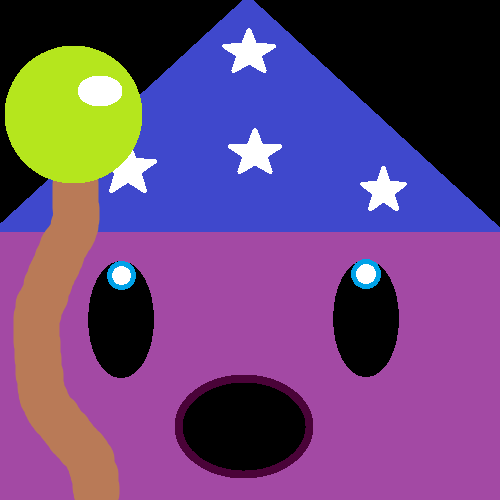
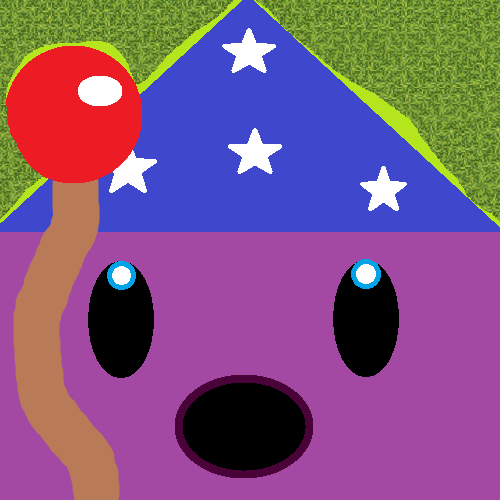
added terrain and updated textures

Changed region(s): [[0.0, 0.0, 0.48, 0.45], [0.51, 0.0, 1.0, 0.45]]

diff --git a/src/Screen.cpp b/src/Screen.cpp
@@ -76,22 +76,21 @@ void Screen::DisplayGame(float play_time)
 	int rounded_play_time = int(play_time);
 	std::string display_text = "Time: " + std::to_string(rounded_play_time);
 	SetHudText(display_text);
+	DisplayTerrain();
 	WriteHudText();
 }
 
-void Screen::DisplayLine(float m_lose_line_position_y)
+void Screen::DisplayTerrain()
 {
-	sf::Vector2f shape_vector;
+	static sf::Vector2u texture_size = m_terrain_texture.getSize();
 	sf::Vector2u window_size = m_window.getSize();
-	shape_vector.x = window_size.x;
-	shape_vector.y = 10;
-	sf::RectangleShape shape = sf::RectangleShape( shape_vector );
-	shape.setFillColor( sf::Color::White );
-	sf::Vector2f top_left_corner;
-	top_left_corner.x = 0;
-	top_left_corner.y = m_lose_line_position_y;
-	shape.setPosition(top_left_corner);
-	m_window.draw(shape);
+	static sf::Vector2f scale;
+	scale.x = window_size.x / texture_size.x;
+	scale.y = window_size.y / texture_size.y;
+	sf::Vector2f top_left_corner = sf::Vector2f(0,0);
+	m_terrain_sprite.setPosition(top_left_corner);
+	m_terrain_sprite.setScale(scale);
+	m_window.draw(m_terrain_sprite);
 }
 
 void Screen::DisplayEntity(const Entity& entity)

diff --git a/include/Screen.hpp b/include/Screen.hpp
@@ -18,9 +18,11 @@ private:
     sf::Texture m_player_texture = sf::Texture("assests/wizard.png");
     sf::Texture m_enemy_texture = sf::Texture("assests/monster.png");
     sf::Texture m_bullet_texture = sf::Texture("assests/fire_ball.png");
+    sf::Texture m_terrain_texture = sf::Texture("assests/terrain.png");
     sf::Sprite m_player_sprite = sf::Sprite(m_player_texture);
     sf::Sprite m_enemy_sprite = sf::Sprite(m_enemy_texture);
     sf::Sprite m_bullet_sprite = sf::Sprite(m_bullet_texture);
+    sf::Sprite m_terrain_sprite = sf::Sprite(m_terrain_texture);
 
 public:
     Screen(sf::RenderWindow& window);
@@ -38,5 +40,5 @@ public:
     void DisplayEntity(const Player& entity);
     void DisplayEntity(const Enemy& entity);
     void DisplayEntity(const Bullet& bullet);
-    void DisplayLine(float m_lose_line_position_y);
+    void DisplayTerrain();
 };

diff --git a/src/Enemy.cpp b/src/Enemy.cpp
@@ -15,7 +15,7 @@ Enemy::Enemy(
     m_min_shot_period = 1000;                                        // minimum time between shots
     m_forward_vector = sf::Vector2f(0, 1);
     m_health_points = 1;
-    m_speed =  300;
+    m_speed =  750;
     m_velocity = m_speed * sf::Vector2f(1, 0);
 
     // determine position and bound

diff --git a/src/Game.cpp b/src/Game.cpp
@@ -215,7 +215,6 @@ void Game::Display()
             m_play_time = m_clock.getElapsedTime().asSeconds();
             
             m_screen.DisplayGame(m_play_time);
-            m_screen.DisplayLine(m_lose_line_position_y);
             m_screen.DisplayEntity(m_player);
 
             DisplayBullets();
